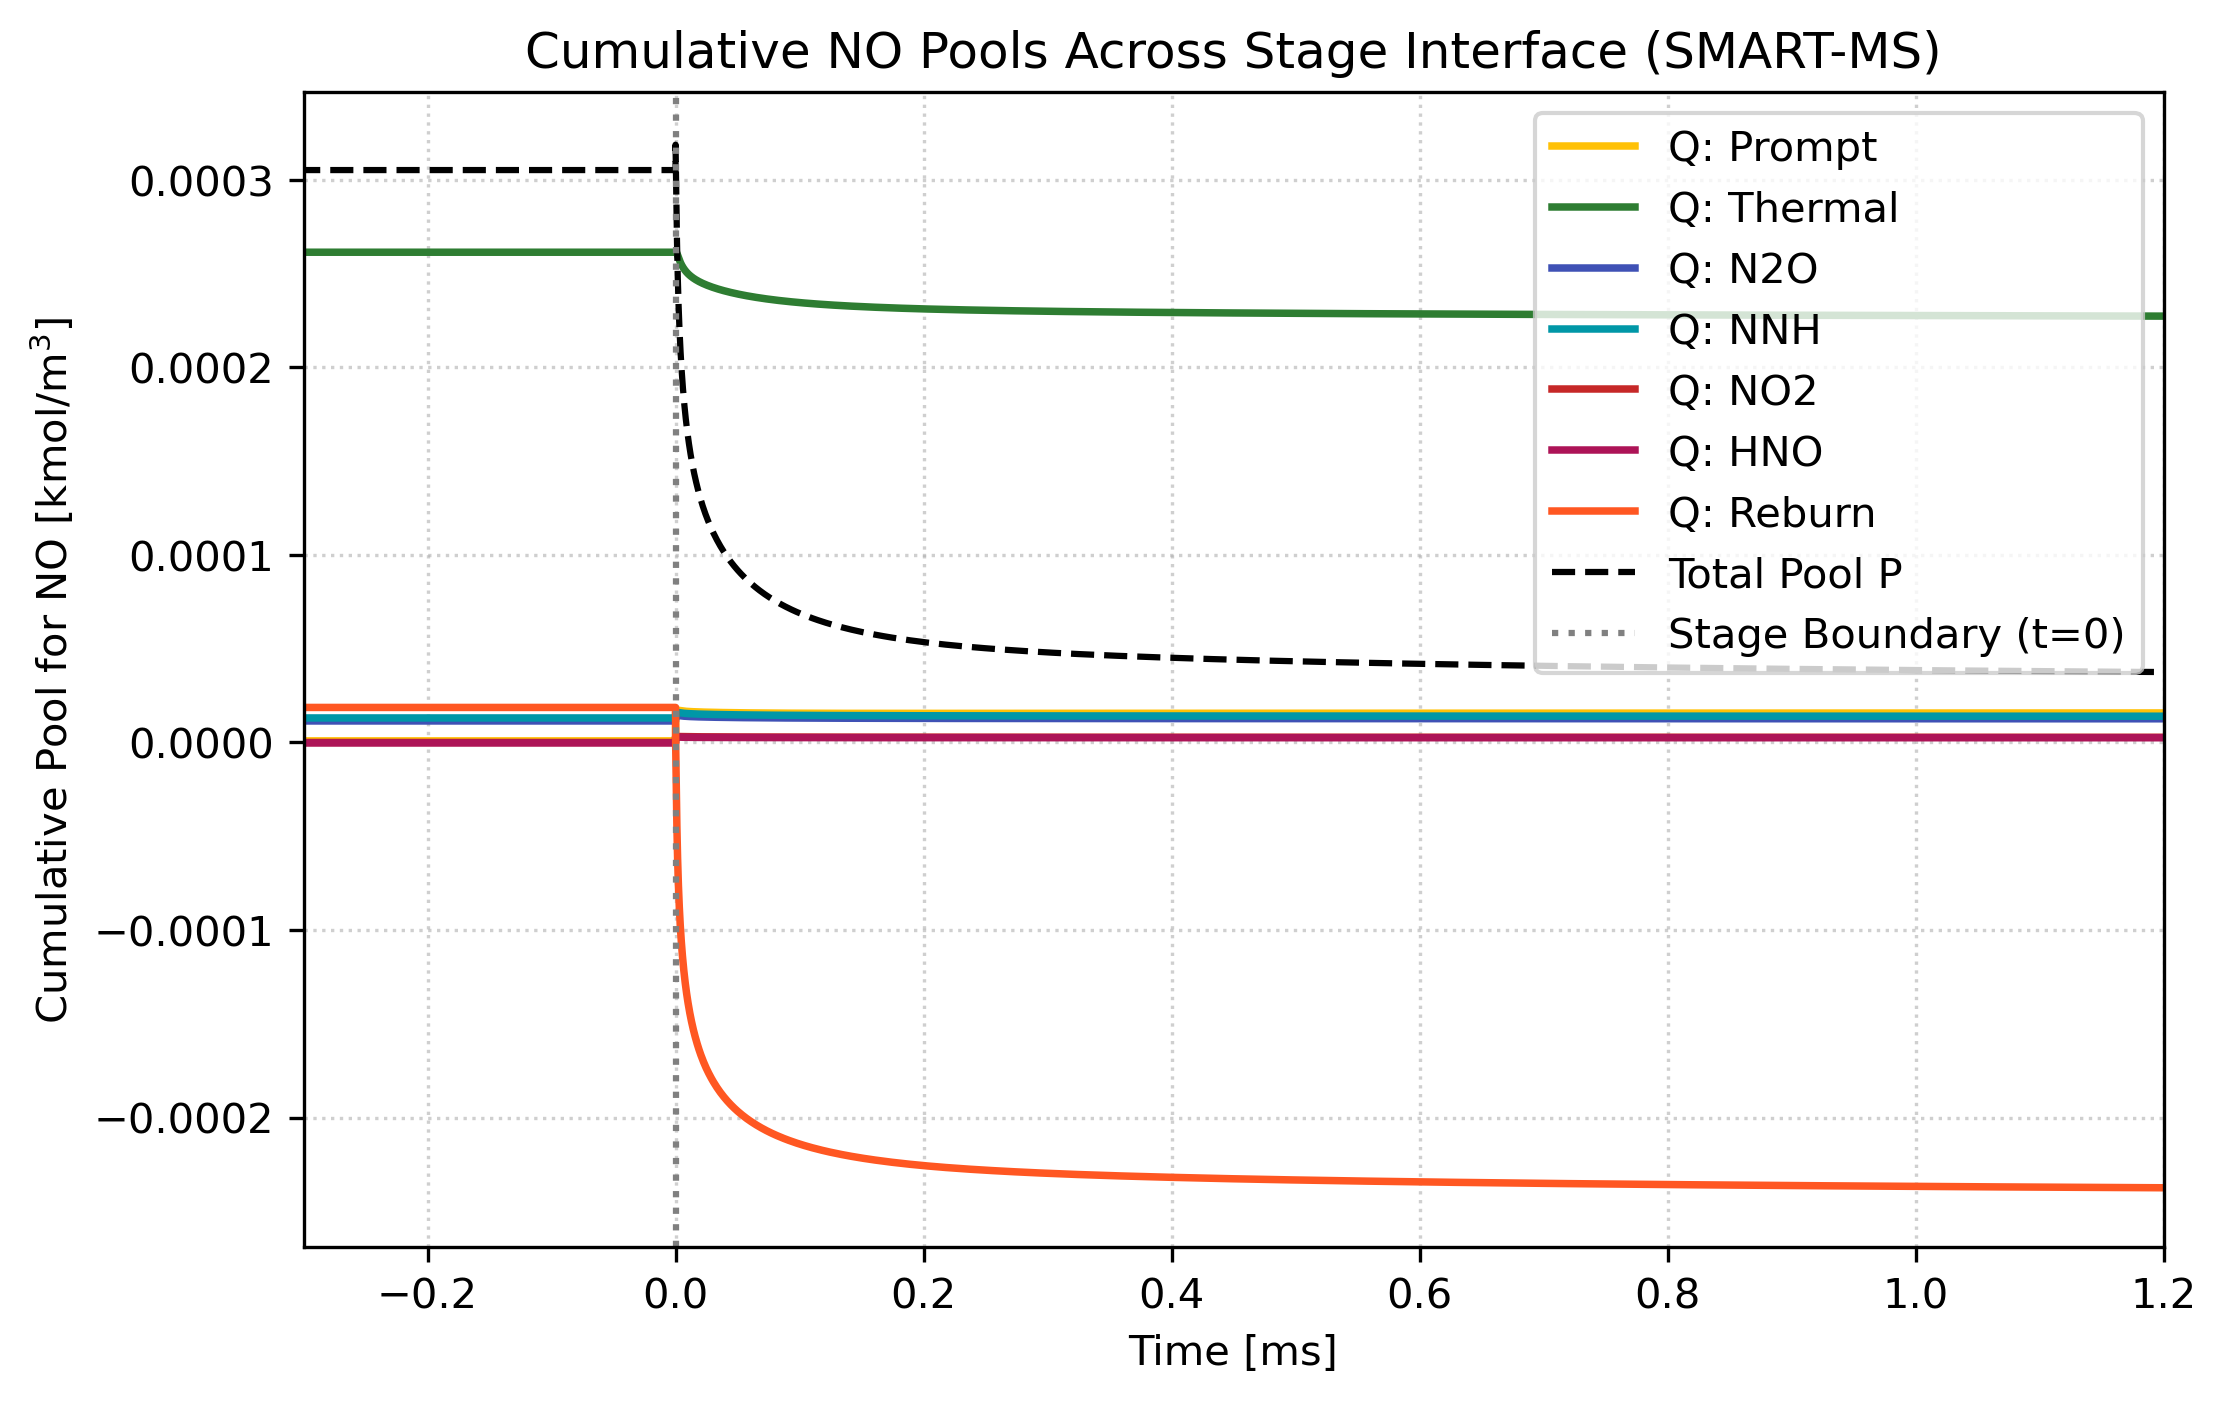
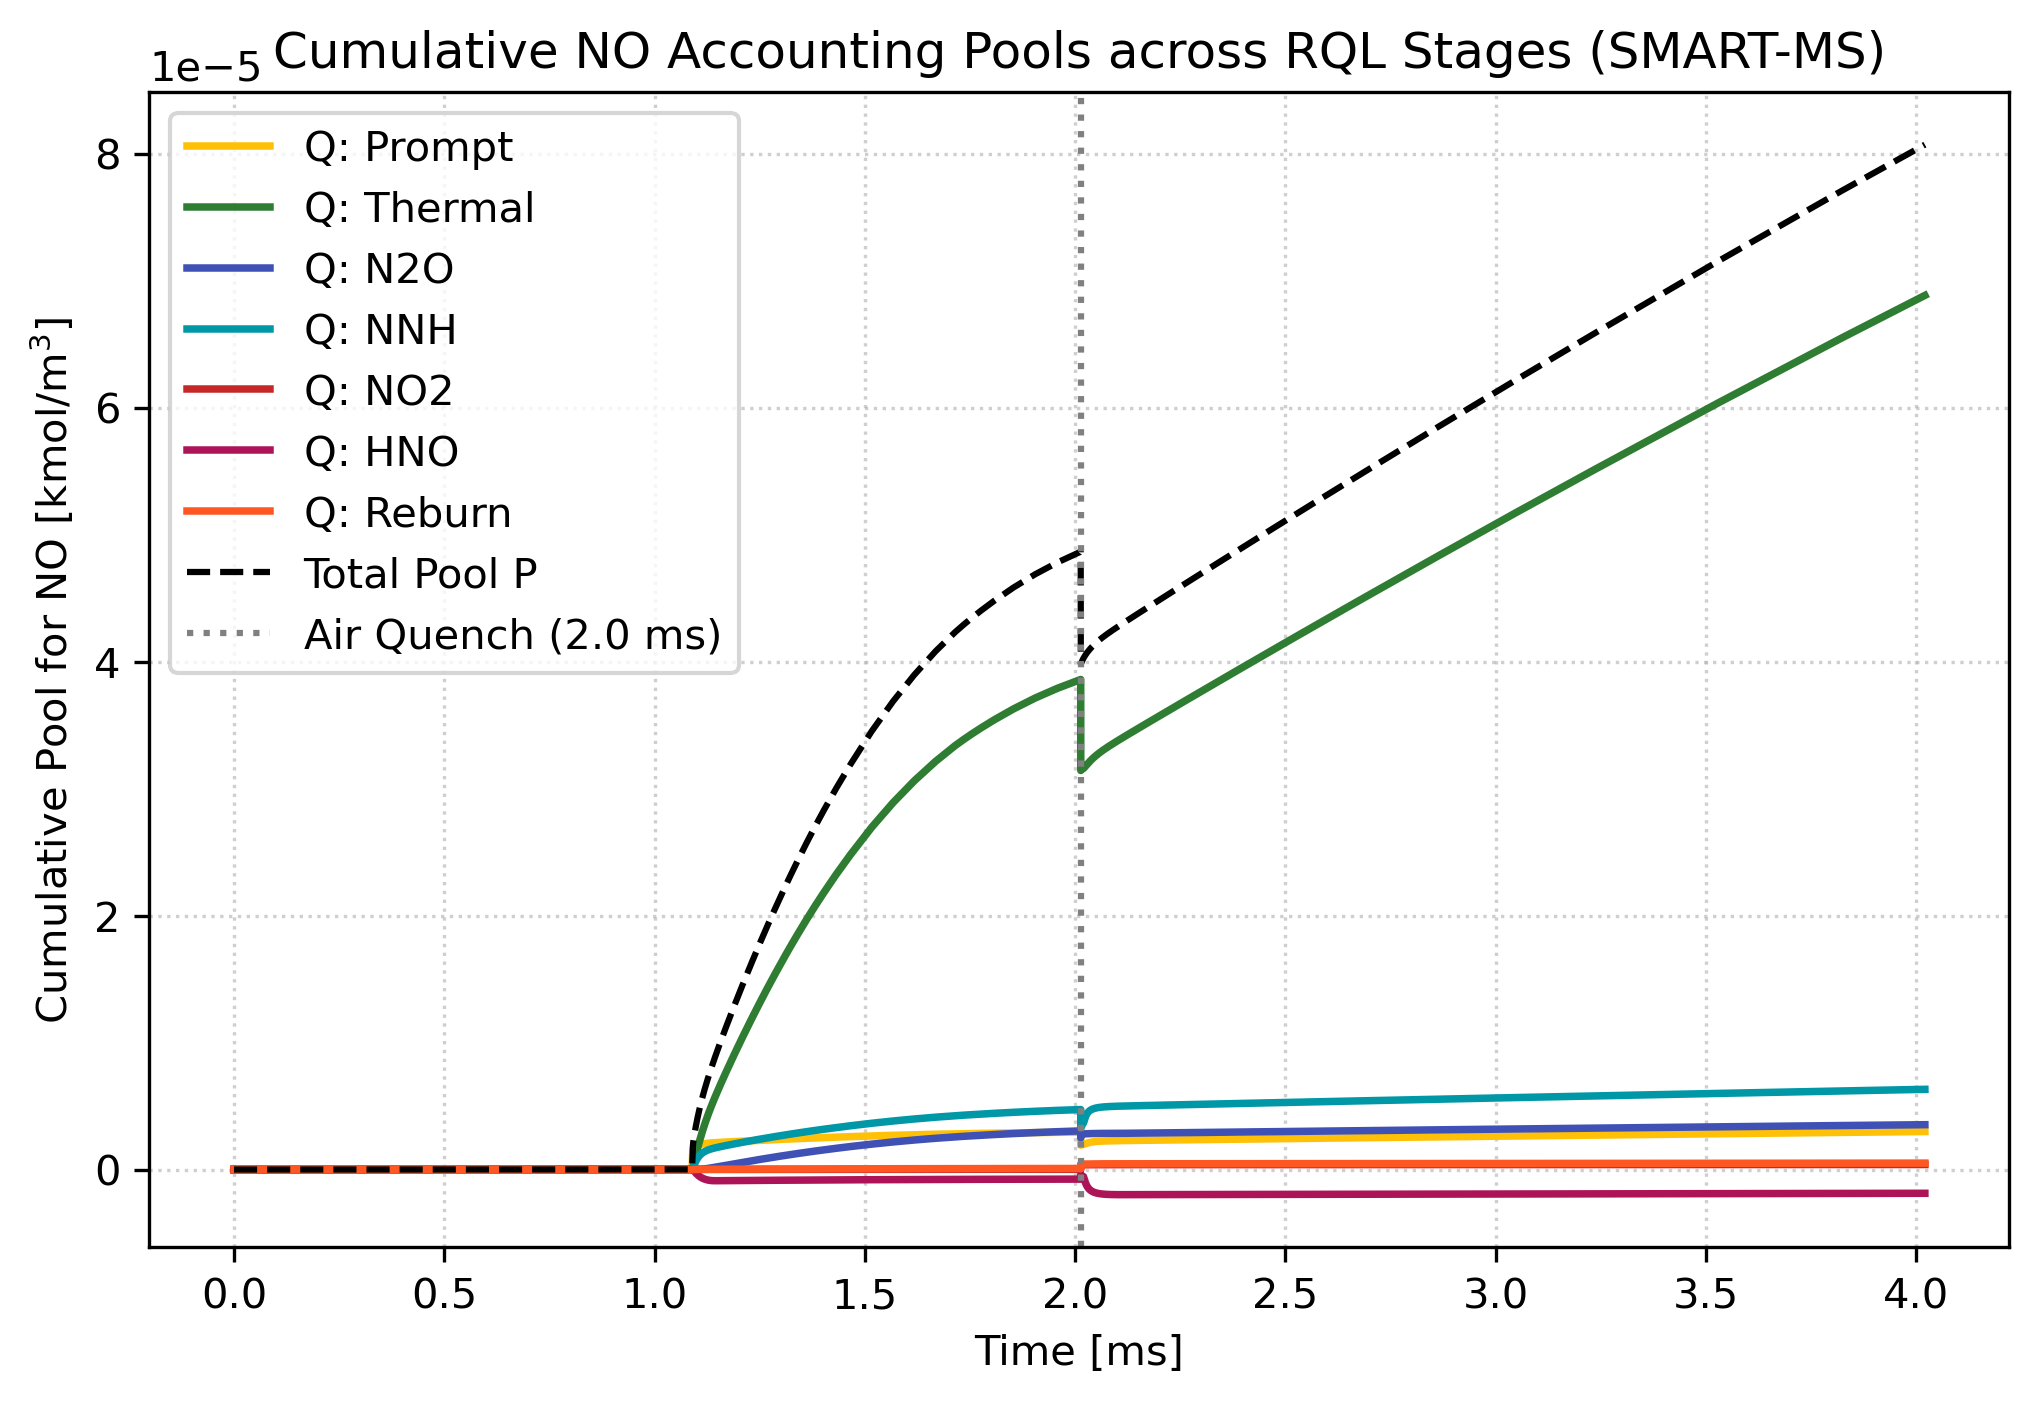
refactor(examples): convert multistage example to standalone pure-Cantera RQL combustion

diff --git a/examples/02_multistage_staged_combustion.py b/examples/02_multistage_staged_combustion.py
@@ -1,10 +1,12 @@
 """
-Example 2: Multi-Stage Axially Staged Combustor Analysis (SMART-MS)
-Mirrors the canonical NRRL axially staged combustor demonstration:
-- Stage 1: Stoichiometric primary flame products (CH4/air, Tin=600 K, P=10 atm)
-- Stage Boundary: Discrete mixing jump tracking (50% staged fuel injection)
-- Stage 2: Rich relaxation stage (Infinite-rate reactor, target_time=5 ms)
-- Multi-target tracking: Resolves both NO destruction and intermediate cyanide (HCN) formation
+Example 2: Multi-Stage Staged Combustor Analysis (SMART-MS)
+Demonstrates pySMART on a classic Rich-Quench-Lean (RQL) staged combustion system:
+- Stage 1 (Rich Zone): Primary fuel-rich combustion (phi = 1.35) forming rich NO intermediates.
+- Interface (Quench / Secondary Air Mixing): Discrete air injection dilutes phi to 0.70.
+  SMART-MS automatically attributes incoming oxidizer to 'Staged Mixing' and tracks exact mass jumps.
+- Stage 2 (Lean Burnout): Secondary lean combustion (phi = 0.70) burning unburnt CO and forming lean NO.
+
+Completely decoupled from any external combustor frameworks: built purely with standard Cantera.
 """
 
 import matplotlib.pyplot as plt
@@ -13,26 +15,21 @@ import pandas as pd
 import cantera as ct
 import pysmart as smart
 
-def simulate_nrrl_staged_combustor():
+def simulate_rql_combustor():
     """
-    Simulates a 2-stage staged combustor trajectory matching NRRL.Combustor conditions:
-    P = 10 atm, T_inlet = 600 K, frac_m_fuel_staged = 0.5 (50% fuel staged).
+    Simulates a 2-stage Rich-Quench-Lean (RQL) combustor trajectory using pure Cantera:
+    - Stage 1: Rich combustion (phi = 1.35, P = 5 atm, residence time = 2.0 ms)
+    - Mixing Interface: Rapid secondary air injection diluting phi to 0.70
+    - Stage 2: Lean burnout (phi = 0.70, P = 5 atm, residence time = 2.0 ms)
     """
     ct.suppress_thermo_warnings()
     mech = "gri30.yaml"
-    gas = ct.Solution(mech)
-    P_val = 10.0 * ct.one_atm
-    T_in = 600.0
+    P = 5.0 * ct.one_atm
 
-    print("   Setting up Stage 1: Stoichiometric Core Combustion (Tin=600K, P=10atm)...")
-    gas.TP = 1100.0, P_val  # Ignition start temperature
-    gas.set_equivalence_ratio(1.0, "CH4:1", "O2:1, N2:3.76")
-    
-    # Equilibrium stopping state
-    gas_eq = ct.Solution(mech)
-    gas_eq.TP = T_in, P_val
-    gas_eq.set_equivalence_ratio(1.0, "CH4:1", "O2:1, N2:3.76")
-    gas_eq.equilibrate("HP")
+    print("1. Simulating Stage 1: Rich Combustion Zone (phi = 1.35, P = 5 atm)...")
+    gas = ct.Solution(mech)
+    gas.TP = 1400.0, P
+    gas.set_equivalence_ratio(1.35, "CH4:1", "O2:1, N2:3.76")
 
     r1 = ct.IdealGasConstPressureReactor(gas)
     sim1 = ct.ReactorNet([r1])
@@ -40,55 +37,54 @@ def simulate_nrrl_staged_combustor():
     times, temps, pressures, stages = [], [], [], []
     species_X = {sp: [] for sp in gas.species_names}
 
-    t_prev = 0.0
     step_cnt = 0
-    while sim1.time < 0.05:
+    while sim1.time < 0.002:  # 2.0 ms rich stage
         sim1.step()
-        dt = sim1.time - t_prev
-        t_prev = sim1.time
         step_cnt += 1
-        if step_cnt % 5 == 0 or (gas.T >= (gas_eq.T - 20.0) and dt >= 0.002):
+        if step_cnt % 3 == 0 or sim1.time >= 0.002:
             times.append(sim1.time)
             temps.append(gas.T)
             pressures.append(gas.P)
             stages.append(1)
             for i, sp in enumerate(gas.species_names):
                 species_X[sp].append(gas.X[i])
-        if gas.T >= (gas_eq.T - 20.0) and dt >= 0.002:
-            break
 
     t1_end = times[-1]
-    print(f"   Stage 1 Complete: {len(times)} states, exit T={temps[-1]:.1f} K, exit NO={species_X['NO'][-1]*1e6:.1f} ppm")
+    print(f"   Stage 1 Complete: exit T = {temps[-1]:.1f} K, exit NO = {species_X['NO'][-1]*1e6:.1f} ppm, CO = {species_X['CO'][-1]*100:.2f}%")
 
-    # Stage 2: Secondary Staged Fuel Injection (50% staged fuel diverted to rich zone)
-    print("   Simulating Stage Boundary Injection: Adding 50% staged CH4...")
-    fuel = ct.Solution(mech)
-    fuel.TPX = T_in, P_val, "CH4:1"
-    
-    far = 1.0 / gas.stoich_air_fuel_ratio("CH4:1", "O2:1, N2:3.76")
-    m_fuel_stoich = 1.0 * far / (1.0 + far)
-    m_fuel_rr = m_fuel_stoich  # 50% staged fuel fraction
+    print("\n2. Simulating Quench Interface: Secondary Air Injection (phi = 1.35 -> 0.70)...")
+    air = ct.Solution(mech)
+    air.TPX = 650.0, P, "O2:0.21, N2:0.79"
 
-    mixed = ct.Quantity(gas, mass=1.0, constant="HP") + ct.Quantity(fuel, mass=m_fuel_rr, constant="HP")
-    gas_rich = mixed.phase
+    # Compute stoichiometric air/fuel ratio and required secondary air mass
+    AF_stoich = gas.stoich_air_fuel_ratio("CH4:1", "O2:0.21, N2:0.79")
+    m_fuel = 1.0 / (1.0 + AF_stoich / 1.35)
+    m_air_needed = m_fuel * (AF_stoich / 0.70)
+    m_air_add = m_air_needed - (1.0 - m_fuel)
 
-    r2 = ct.IdealGasConstPressureReactor(gas_rich)
+    # Constant enthalpy & pressure mixing
+    mixed = ct.Quantity(gas, mass=1.0, constant="HP") + ct.Quantity(air, mass=m_air_add, constant="HP")
+    gas_lean = mixed.phase
+
+    print(f"   Mixing Interface: exit T = {gas_lean.T:.1f} K, NO after air dilution = {gas_lean['NO'].X[0]*1e6:.1f} ppm")
+
+    print("\n3. Simulating Stage 2: Lean Burnout Zone (phi = 0.70, P = 5 atm)...")
+    r2 = ct.IdealGasConstPressureReactor(gas_lean)
     sim2 = ct.ReactorNet([r2])
 
-    print("   Setting up Stage 2: Rich Relaxation (target_time = 5 ms)...")
     step_cnt = 0
-    while sim2.time < 0.005:
+    while sim2.time < 0.002:  # 2.0 ms lean burnout
         sim2.step()
         step_cnt += 1
-        if step_cnt % 3 == 0 or sim2.time >= 0.005:
+        if step_cnt % 3 == 0 or sim2.time >= 0.002:
             times.append(t1_end + sim2.time)
-            temps.append(gas_rich.T)
-            pressures.append(gas_rich.P)
+            temps.append(gas_lean.T)
+            pressures.append(gas_lean.P)
             stages.append(2)
-            for i, sp in enumerate(gas_rich.species_names):
-                species_X[sp].append(gas_rich.X[i])
+            for i, sp in enumerate(gas_lean.species_names):
+                species_X[sp].append(gas_lean.X[i])
 
-    print(f"   Stage 2 Complete: exit T={temps[-1]:.1f} K, exit NO={species_X['NO'][-1]*1e6:.1f} ppm")
+    print(f"   Stage 2 Complete: exit T = {temps[-1]:.1f} K, exit NO = {species_X['NO'][-1]*1e6:.1f} ppm")
 
     df = pd.DataFrame({"time": times, "T": temps, "P": pressures, "stage": stages})
     for sp, vals in species_X.items():
@@ -97,18 +93,18 @@ def simulate_nrrl_staged_combustor():
     return df, t1_end
 
 def main():
-    print("1. Generating NRRL Axially Staged Combustor Trajectory...")
-    df, t_stage1_end = simulate_nrrl_staged_combustor()
-    print(f"   Total composite trajectory: {len(df)} points across 2 stages.")
+    print("=================================================================")
+    print("  pySMART-MS: Decoupled Multi-Stage RQL Combustion Analysis      ")
+    print("=================================================================\n")
 
-    # Zero-shift time relative to the stage interface (t=0 at secondary fuel injection)
-    df["time_rel_boundary"] = df["time"] - t_stage1_end
+    df, t_stage1_end = simulate_rql_combustor()
+    print(f"\nComposite RQL trajectory generated: {len(df)} points across 2 stages.")
 
-    print("\n2. Executing pySMART Multi-Stage Jump Tracking (SMART-MS)...")
+    print("\n4. Executing pySMART with Multi-Stage Jump Tracking (SMART-MS)...")
     result = smart.analyze(
         df=df,
         mech="gri30.yaml",
-        time_col="time_rel_boundary",
+        time_col="time",
         tracked_element="N",
         target_species="NO",
         stage_col="stage",    # Enables discrete stage mass-jump tracking
@@ -116,49 +112,40 @@ def main():
         n_workers=4
     )
 
-    print("\n3. Identified Stage Slices:")
+    print("\n5. Identified Stage Slices:")
     for st_name, s_slice in result.stage_slices.items():
         print(f"   Stage {st_name}: rows {s_slice.start} to {s_slice.stop}")
 
-    print("\n4. Integrated Cumulative Yields for NO:")
+    print("\n6. Integrated Cumulative Yields for NO:")
     df_no = result.get_cumulative_yields(target="NO")
     print(df_no.to_string(index=False))
 
-    print("\n5. Integrated Cumulative Yields for Intermediate HCN:")
-    df_hcn = result.get_cumulative_yields(target="HCN")
-    print(df_hcn.to_string(index=False))
+    print("\n7. Generating publication diagnostic plots across both combustion zones...")
+    t_boundary_ms = t_stage1_end * 1e3
 
-    print("\n6. Generating diagnostic plots zoomed in on stage interface & rich reaction zone...")
-    # Zoom limits: [-0.3 ms, 1.2 ms] around stage boundary
-    # Shows late Stage 1 flame exit followed by instantaneous mixing jump and rich reburning!
-    zoom_xlim = (-0.3, 1.2)
-
-    # Plot NO rates
+    # 7a. Plot allocated pathway rates
     fig_rates, ax_rates = result.plot_rates(target="NO", t_ms=True)
-    ax_rates.set_xlim(zoom_xlim)
-    ax_rates.axvline(0.0, color="gray", linestyle=":", label="Stage Boundary (t=0)")
-    ax_rates.set_title("Allocated NO Rates Across Stage Interface (SMART-MS)")
+    ax_rates.axvline(t_boundary_ms, color="gray", linestyle=":", lw=1.5, label=f"Air Quench ({t_boundary_ms:.1f} ms)")
+    ax_rates.set_title("Allocated NO Source Rates across RQL Stages (SMART-MS)")
     ax_rates.legend(frameon=True)
     fig_rates.savefig("examples/02_multistage_rates_no.png", dpi=300, bbox_inches="tight")
     print("   Saved: examples/02_multistage_rates_no.png")
 
-    # Plot NO pools
+    # 7b. Plot fractional formation dominance
+    fig_dom, ax_dom = result.plot_dominance(target="NO", t_ms=True)
+    ax_dom.axvline(t_boundary_ms, color="gray", linestyle=":", lw=1.5, label=f"Air Quench ({t_boundary_ms:.1f} ms)")
+    ax_dom.set_title("NO Fractional Formation Dominance across RQL Stages")
+    ax_dom.legend(frameon=True)
+    fig_dom.savefig("examples/02_multistage_dominance_no.png", dpi=300, bbox_inches="tight")
+    print("   Saved: examples/02_multistage_dominance_no.png")
+
+    # 7c. Plot cumulative pools Q
     fig_pools, ax_pools = result.plot_pools(target="NO", t_ms=True)
-    ax_pools.set_xlim(zoom_xlim)
-    ax_pools.axvline(0.0, color="gray", linestyle=":", label="Stage Boundary (t=0)")
-    ax_pools.set_title("Cumulative NO Pools Across Stage Interface (SMART-MS)")
+    ax_pools.axvline(t_boundary_ms, color="gray", linestyle=":", lw=1.5, label=f"Air Quench ({t_boundary_ms:.1f} ms)")
+    ax_pools.set_title("Cumulative NO Accounting Pools across RQL Stages (SMART-MS)")
     ax_pools.legend(frameon=True)
     fig_pools.savefig("examples/02_multistage_pools_no.png", dpi=300, bbox_inches="tight")
     print("   Saved: examples/02_multistage_pools_no.png")
-
-    # Plot HCN rates (mirroring NRRL splt.plot_results_f target_sp='HCN')
-    fig_hcn, ax_hcn = result.plot_rates(target="HCN", t_ms=True)
-    ax_hcn.set_xlim(zoom_xlim)
-    ax_hcn.axvline(0.0, color="gray", linestyle=":", label="Stage Boundary (t=0)")
-    ax_hcn.set_title("Allocated HCN Rates Across Stage Interface (SMART-MS)")
-    ax_hcn.legend(frameon=True)
-    fig_hcn.savefig("examples/02_multistage_rates_hcn.png", dpi=300, bbox_inches="tight")
-    print("   Saved: examples/02_multistage_rates_hcn.png")
 
     print("\nExample 2 finished successfully!")
 

diff --git a/README.md b/README.md
@@ -134,9 +134,9 @@ fig.savefig("multistage_rates_no.png", dpi=300, bbox_inches="tight")
   <img src="examples/02_multistage_rates_no.png" alt="Multi-Stage Allocated Pathway Rates (SMART-MS)" width="85%"/>
 </p>
 
-- **Stage 1 (Primary Flame):** Stoichiometric combustion actively forms Thermal $\ch{NO}$ up to high temperatures.
-- **Stage Mixing Interface:** Secondary fuel injection ($50\%$ staged fuel) physically dilutes pre-existing gases without instantaneous chemical reaction. SMART-MS contracts pre-existing pools by the exact dilution factor.
-- **Stage 2 (Rich Relaxation):** In a fuel-rich environment, Reburn becomes an active sink (negative rate), rapidly destroying carry-over $\ch{NO}$ while intermediate cyanides ($\ch{HCN}$) are tracked with exact mass closure.
+- **Stage 1 (Rich Zone, $\phi = 1.35$):** Fuel-rich combustion produces high concentrations of prompt $\ch{NO}$ and intermediate carbon monoxide ($\sim 7.6\%\,\ch{CO}$) at reduced oxygen availability.
+- **Quench Interface ($t = 2.0\,\mathrm{ms}$):** Secondary air injection immediately dilutes local concentrations ($\Delta P_i^{\mathrm{mix}}$). SMART-MS accounts for oxidizer inflow and contracts existing pools by the exact dilution factor.
+- **Stage 2 (Lean Burnout, $\phi = 0.70$):** Additional thermal $\ch{NO}$ forms as secondary oxygen burns the remaining $\ch{CO}$, while SMART-MS maintains exact mass closure across the transition.
 
 ---
 
@@ -286,4 +286,4 @@ result = smart.analyze(
 The [`examples/`](examples/) directory contains standalone, turnkey demonstration scripts mirroring the physical models in NRRL and thesis analyses:
 
 - **[`examples/01_single_stage_premixed.py`](examples/01_single_stage_premixed.py)**: Single-stage stoichiometric $\ch{CH4}/\text{air}$ auto-ignition trajectory ($T_{\mathrm{in}}=600\,\mathrm{K}$, $P=5\,\mathrm{atm}$, GRI-Mech 3.0). Generates the complete diagnostic suite: allocated source rates ($U$), fractional dominance stackplot ($S^+$), 1D phase portrait (ROP vs. Temperature), cumulative pools ($Q$), and directed reaction pathway network graphs.
-- **[`examples/02_multistage_staged_combustion.py`](examples/02_multistage_staged_combustion.py)**: Axially staged combustor model with discrete mixing jump tracking (SMART-MS). Synthesizes a stoichiometric core flame (Stage 1), discrete $50\%$ staged fuel injection at the interface, and subsequent rich relaxation (Stage 2) resolving both thermal $\ch{NO}$ reburn destruction and intermediate cyanide ($\ch{HCN}$) formation.
+- **[`examples/02_multistage_staged_combustion.py`](examples/02_multistage_staged_combustion.py)**: Decoupled two-stage Rich-Quench-Lean (RQL) combustor model using pure Cantera. Simulates rich primary combustion ($\phi=1.35$), rapid secondary air quench ($\Delta P_i^{\mathrm{mix}}$ jump tracking), and subsequent lean burnout ($\phi=0.70$), comparing pathway rates and cumulative pools across both stages.
